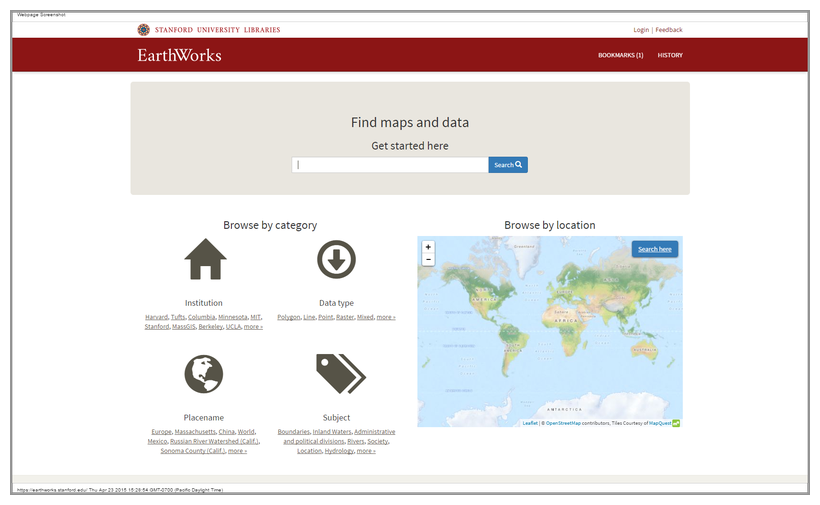
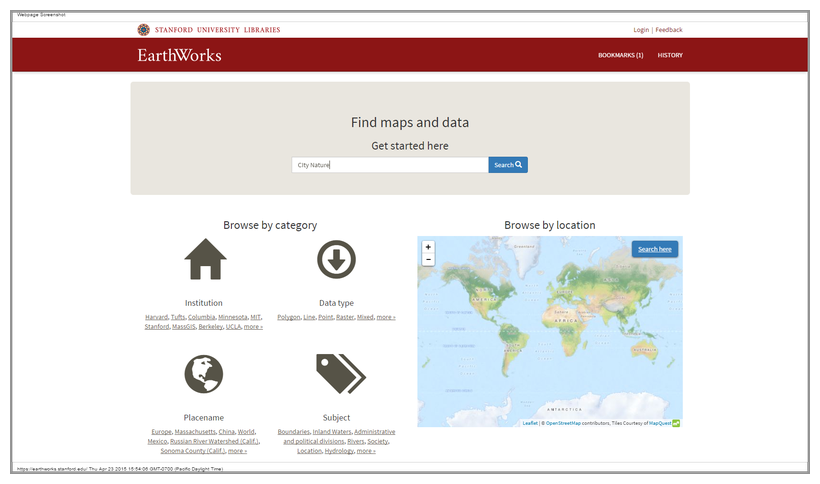
added image

Changed region(s): [[0.0305, 0.4339, 0.9756, 0.9917], [0.0, 0.0, 1.0, 0.186], [0.1524, 0.2169, 0.8537, 0.4029]]

diff --git a/README.md b/README.md
@@ -9,7 +9,11 @@ This tutorial will demonstrate how to make use of data that is discoverable thro
 
  I'll be demonstrating how you can create a web map with the web mapping service [CartoDB.com](http://cartodb.com), but you should keep in mind that the same [**OGC**](http://www.opengeospatial.org/) compliant web service endpoints can be used in any other applications that support them, including [**ArcGIS Online**](http://arcgis.com), [**Leaflet.js**](http://leafletjs.com/), [**QGIS**](http://qgis.org/en/site/), [**MapBox**](https://www.mapbox.com/) and others.
 
-###Finding Data in [EarthWorks.stanford.edu](http://earthworks.stanford.edu)
+###Finding Data in [EarthWorks](http://earthworks.stanford.edu)
+
+Finding data in EarthWorks is pretty intuitive. It's a single search box interface, so you can just enter what you are interested in, there, or you can use the facets on the left side of the panel to begin drilling down into the holding. Of course, if you are looking for a particular area, you can also just zoom to that area in the map and click **Search here**. I won't spend too much time going into searching for data in [EarthWorks](http://earthworks.stanford.edu), since that's not what this tutorial is about. Instead, I'm just gong to focus on a dataset developed by the [**City Nature**](http://citynature.stanford.edu) project.
+
+* Type '**City Nature**' into the [EarthWorks](http://earthworks.stanford.edu) 
 
 ![EarthWorks](images/earthworks.png)
 
